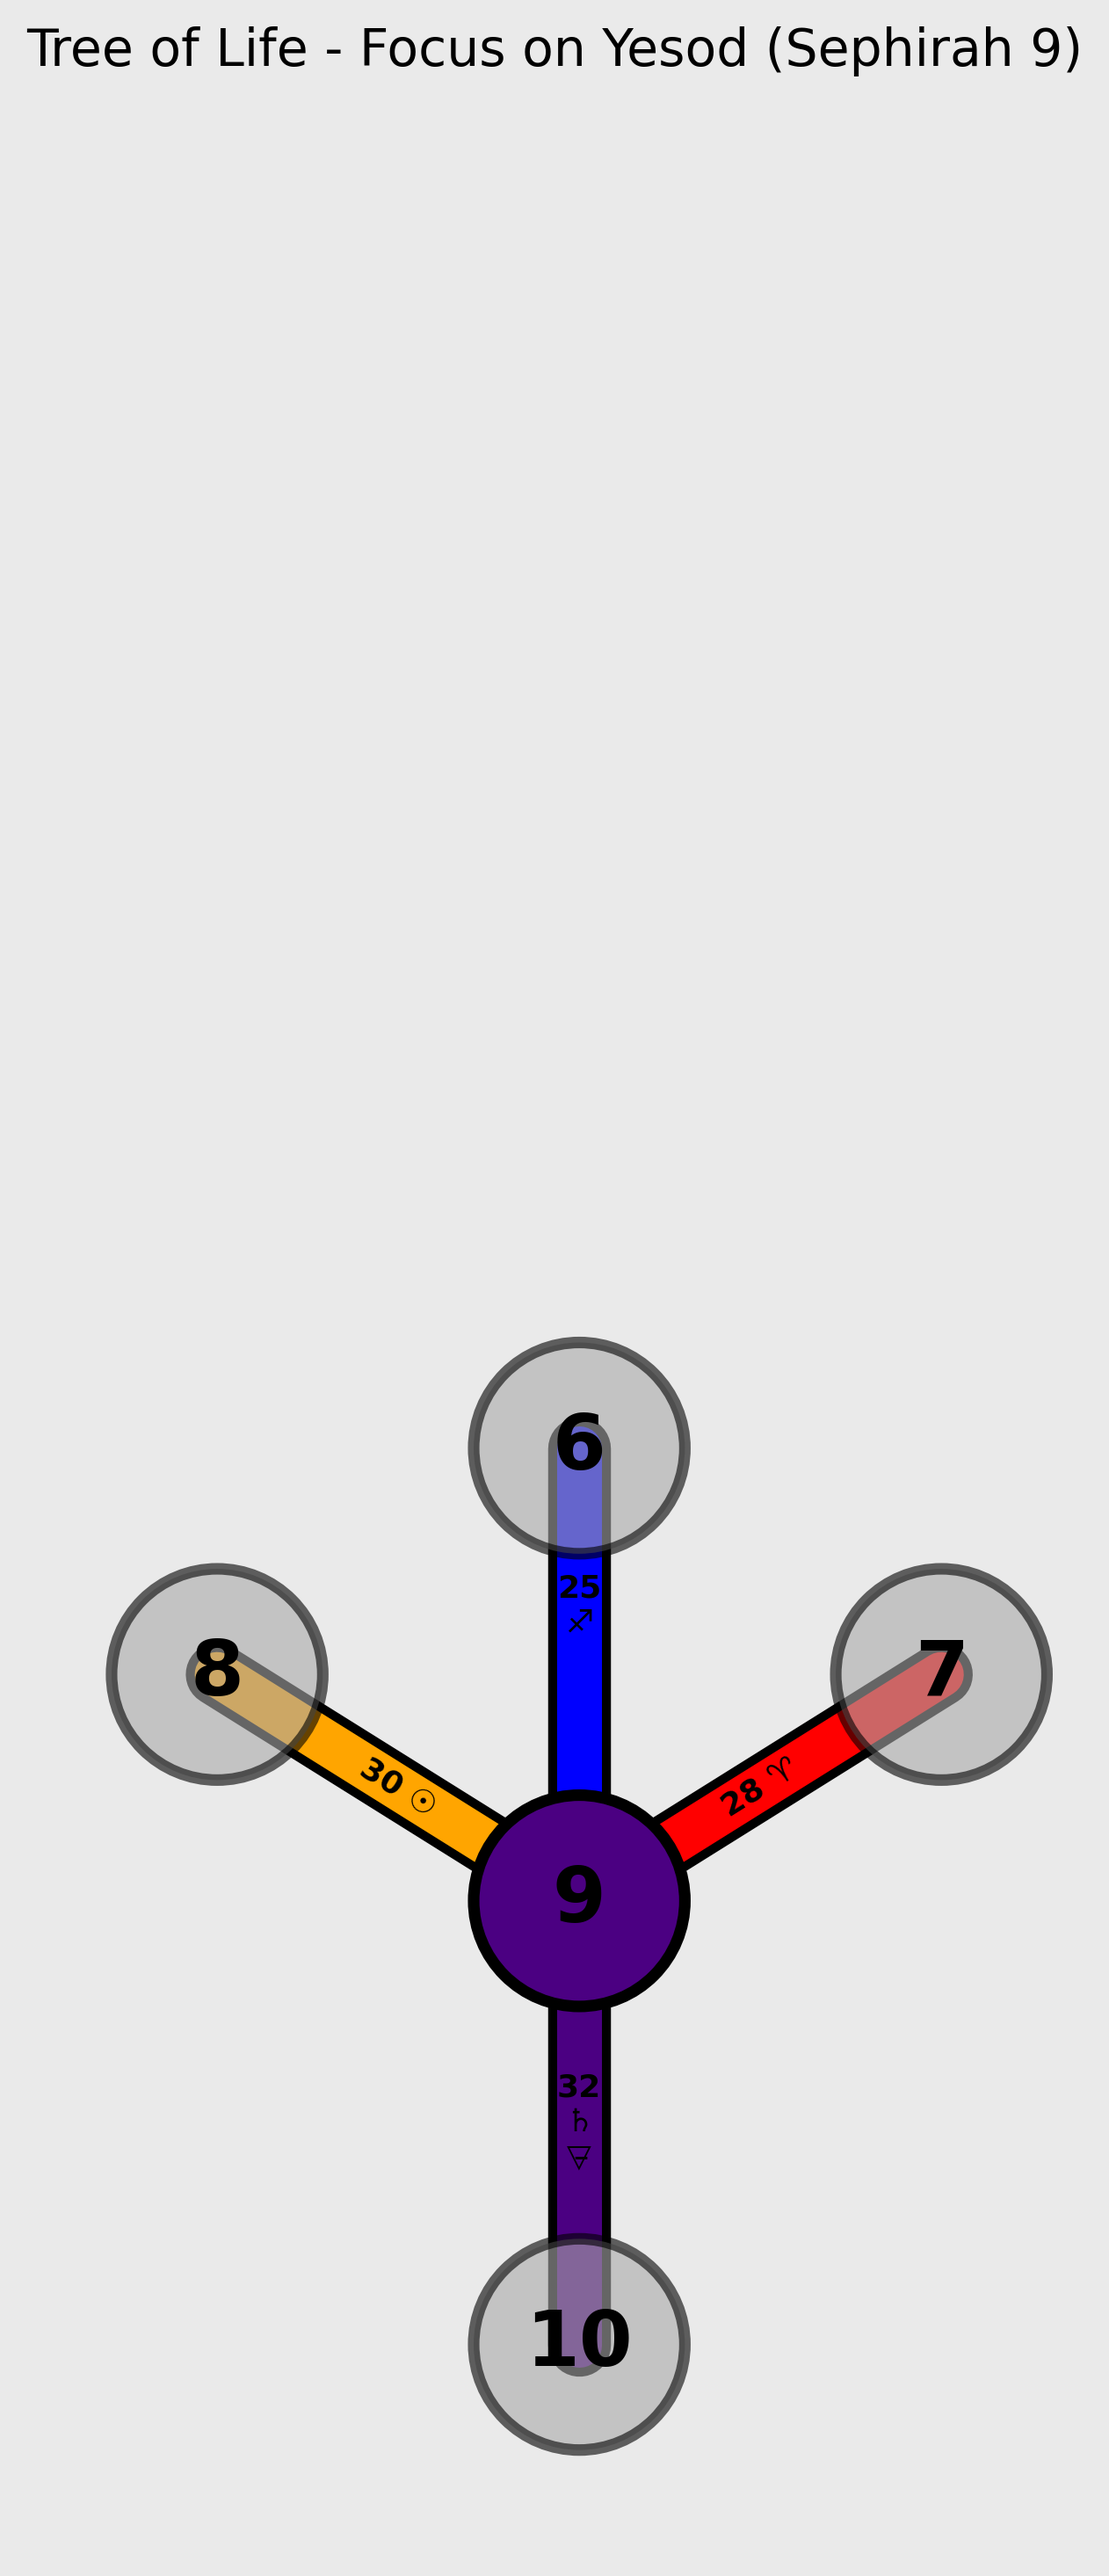
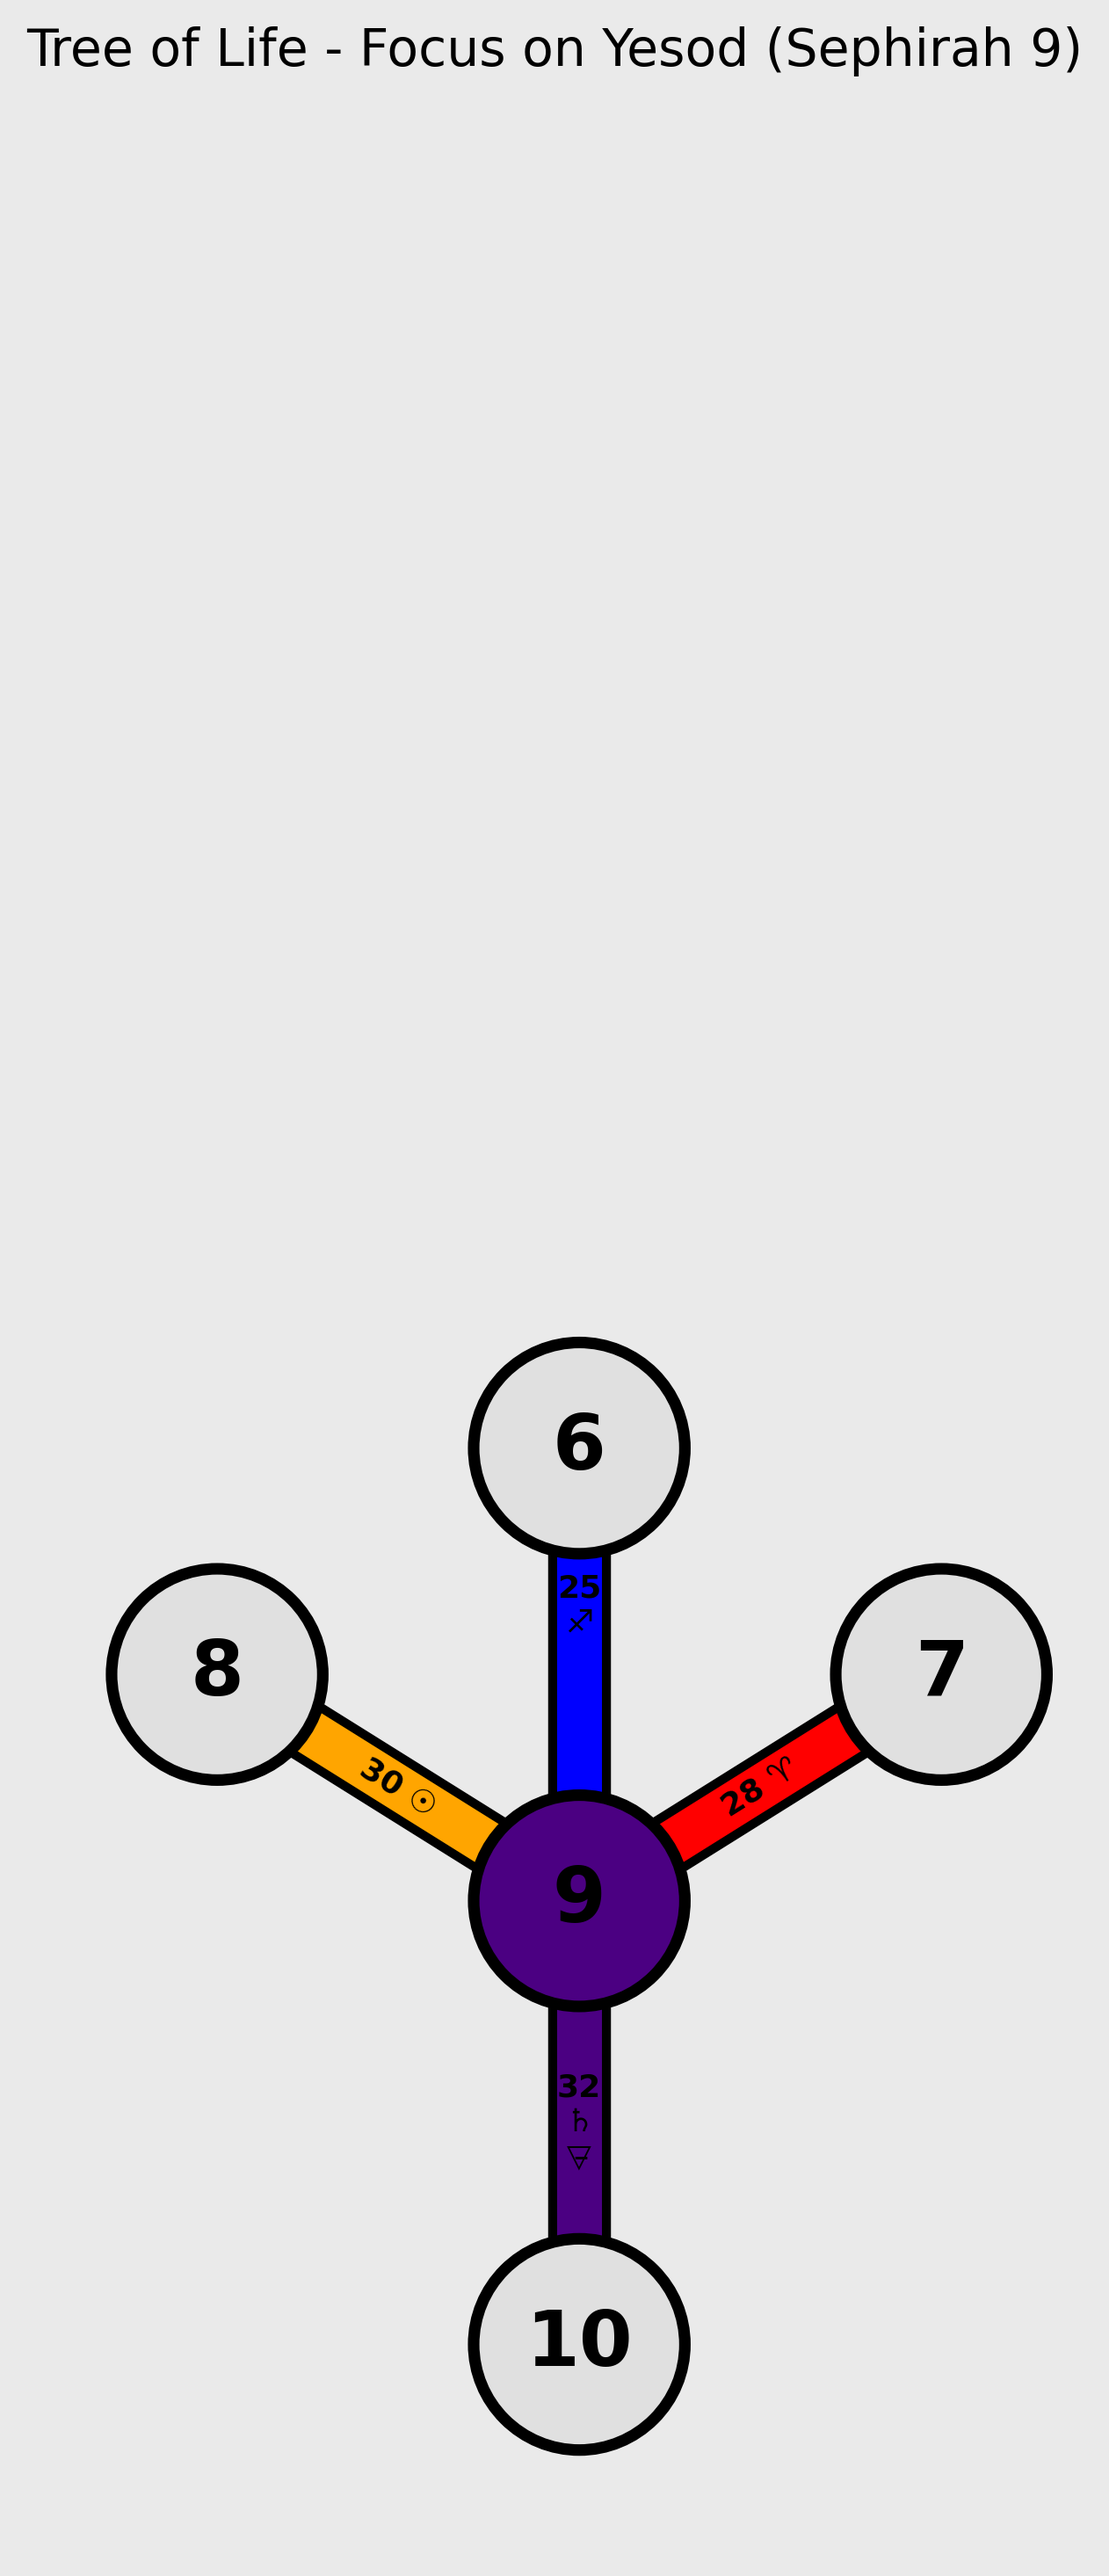
style: improve non-focused sephiroth visibility in Tree of Life diagrams

diff --git a/TreeOfLife.py b/TreeOfLife.py
@@ -532,9 +532,9 @@ class TreeOfLife:
 
             # If focusing on a specific sephirah, gray out all except the focused one
             if focus_sephirah is not None and seph_num != focus_sephirah:
-                # Gray out connected sephiroth by reducing opacity
-                alpha = 0.6
-                circle_face_color = '#AAAAAA'  # Gray out connected sephiroth
+                # Gray out connected sephiroth without reducing opacity
+                alpha = 1.0  # Changed from 0.6 to make fully opaque
+                circle_face_color = '#E0E0E0'  # Slightly darker gray for non-focused sephiroth
             else:
                 alpha = 1.0
                 circle_face_color = color  # Use the sephirah's color
